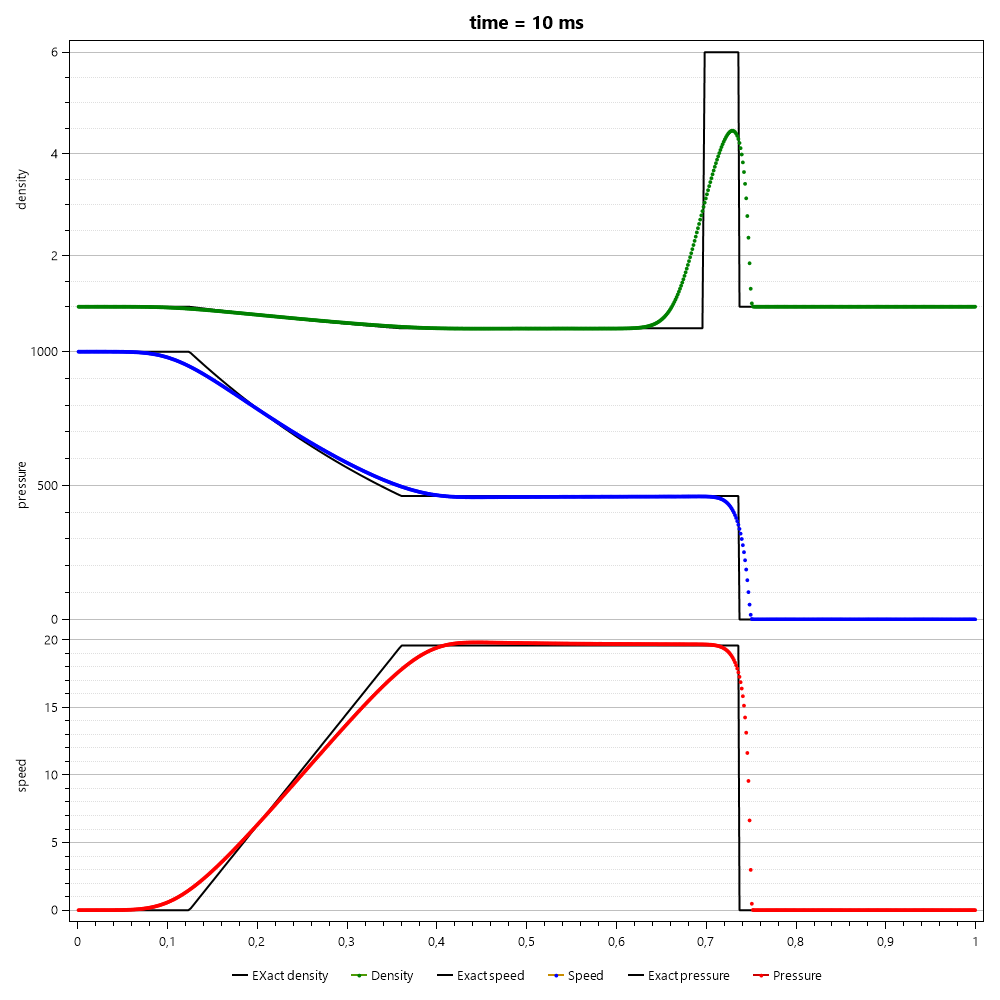
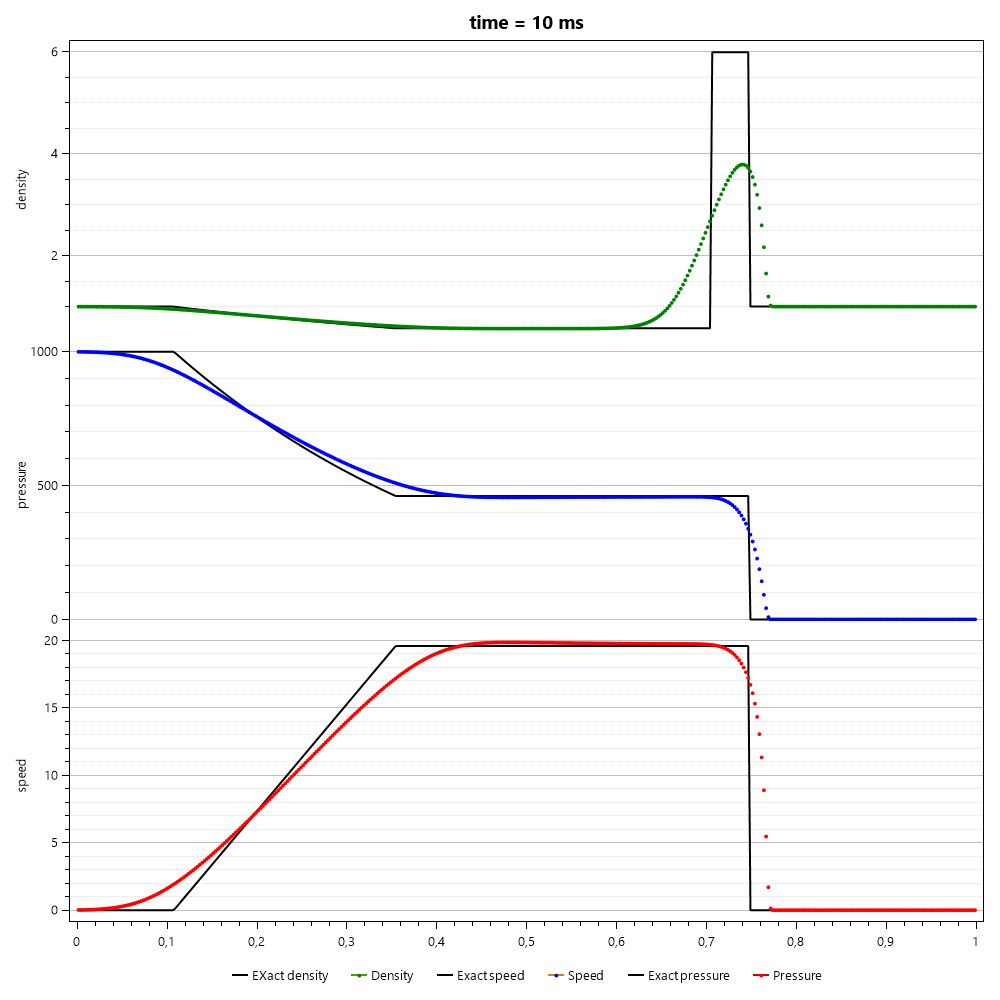
png tests

diff --git a/Program.cs b/Program.cs
@@ -16,13 +16,13 @@ namespace Sod
             int N = 200;
             string result_name_file = $"";
             double gamma = 1.4;
-            double time = 0.02;
+            double time = 0.1;
 
             // Sod, Modified Sod, 2 vacuum waves, Big gradient, 3 breaks
-            double[,] left = { { 1, 0, 1 }, { 1.0, 0.75, 1.0 }, { 1.0, -2.0, 0.4 }, { 1.0, 0.0, 1000.0 }, { 5.99924, 19.5975, 460.894 } };
-            double[,] right = { { 0.125, 0.0, 0.1 }, { 0.125, 0.0, 0.1 }, { 1.0, 2.0, 0.4 }, { 1.0, 0.0, 0.01 }, { 5.99242, -6.19633, 46.0950 } };
+            double[,] left = { { 1, 0, 1 }, { 1.0, 0.75, 1.0 }, { 1.0, -1.0, 0.4 }, { 1.0, 0.0, 1000.0 }, { 5.99924, 19.5975, 460.894 } };
+            double[,] right = { { 0.125, 0.0, 0.1 }, { 0.125, 0.0, 0.1 }, { 1.0, 1.0, 0.4 }, { 1.0, 0.0, 0.01 }, { 5.99242, -6.19633, 46.0950 } };
 
-            for (int i = 0; i <= left.Length; i++)
+            for (int i = 0; i <= 1; i++)
             {
                 double ro_left = left[i,0];
                 double u_left = left[i,1];
@@ -38,12 +38,12 @@ namespace Sod
                 var k = CIR.CalculateWrite(result_name_file+"Test "+i.ToString()+ " ",false,3,0.2, path);
 
                 var gg = new Godunov(param);
-                var g = gg.CalculateWrite(result_name_file + "Test " + i.ToString() + " ",false, 3, 0.2,  path);
+                var g = gg.CalculateWrite(result_name_file + "Test " + i.ToString() + " ",true, 3, 0.1,  path);
 
                 var mm = new Minmod(param);
-                var m = mm.CalculateWrite(result_name_file + "Test " + i.ToString() + " ", false, 3, 0.1, false, path);
+                var m = mm.CalculateWrite(result_name_file + "Test " + i.ToString() + " ", true, 3, 0.1, path);
 
-                Plots.PlotBoth(param, g, m, "Test " + i.ToString() + " ","Godunov","MUSCL", path);
+                Plots.PlotBoth(param, g, m, "Test " + i.ToString() + " ","Godunov ","MUSCL", path);
             }
             return;
 

diff --git a/CFL/minmod.cs b/CFL/minmod.cs
@@ -29,8 +29,9 @@ namespace Sod.CFL
         }
 
 
-        public double[,] CalculateWrite(string result_name_file, bool write = true, int presision = 3, double CFL = 0.2, bool predictor = true, string path ="")
+        public double[,] CalculateWrite(string result_name_file, bool write = true, int presision = 3, double CFL = 0.2, string path ="")
         {
+            bool predictor = true;
             int boundary = 1;
             result_name_file += "minmod_";
 
